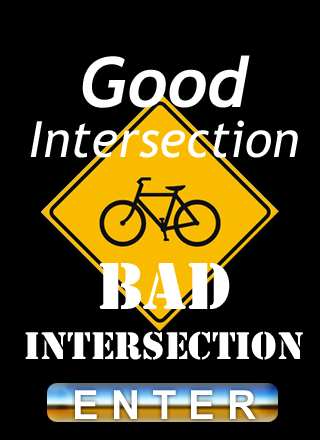
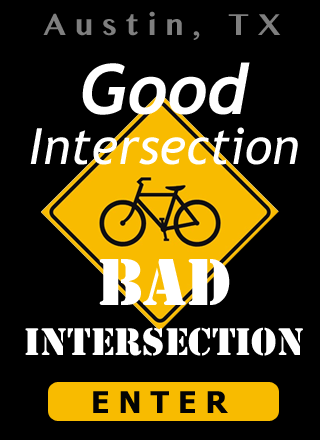
new buttons

diff --git a/public/javascripts/application.js b/public/javascripts/application.js
@@ -3,3 +3,17 @@
 
 // Place your application-specific JavaScript functions and classes here
 // This file is automatically included by javascript_include_tag :defaults
+
+
+// Place your application-specific JavaScript functions and classes here
+// This file is automatically included by javascript_include_tag :defaults
+
+
+function show_raw_data() {
+	$('#raw_data').toggle();
+}
+
+$(document).ready(function($) {
+	$('a#show_raw_data_btn').click(toggle);
+});
+

diff --git a/public/stylesheets/custom.css b/public/stylesheets/custom.css
@@ -1,0 +1,3 @@
+#raw_data {
+	display: none;
+}
